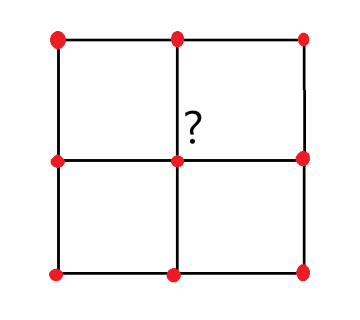
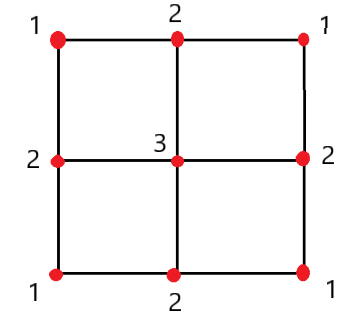
..

diff --git a/pages/university/exercise probability.html b/pages/university/exercise probability.html
@@ -49,22 +49,24 @@
 
 <div class="row-fluid">
   <div class="span12">
-    <p>The following problem is given.<br />
-A particle is placed uniformly at one of the nine points in a $3\times3$ square grid. The particle then
+    <p>The following problem is given</p>
+<blockquote>
+  <p>A particle is placed uniformly at one of the nine points in a $3\times3$ square grid. The particle then
 performs a random walk such that at each step one of the adjacent points (to the right or left, upwards
 or downwards) is chosen with equal probabilities. This means that the particle never remains in a point
 or moves diagonally.<br />
-The question is to find the probability that the particle after three steps is at the central point.<br />
-<img src="../img/3x3grid2.png" alt="3x3" /><br />
+The question is to find the probability that the particle after three steps is at the central point.</p>
+</blockquote>
+
+<p><img src="../img/3x3grid.png" alt="3x3=9" height="300px" width="270px" class="center-image" /><br />
 Now, the standard way to approach the problem would be to consider all possible combinations to reach
 the center point, compute their probabilities and summing them, since each one corresponds to a different
 outcome of a random experiment.<br />
 This leads naturally to a series of matrix multiplications; using the notation that is typical
 of the discrete states Markov chains, of which this is a basic example, I will call $P$ the transition matrix,
-that is the matrix whose element $p_{ij}$ represent the probability for the particle of moving from
+that is the matrix whose element $p_{ij}$ represents the probability for the particle of moving from
 state $i$ to state $j$; here I will enumerate the states
-by row, that is states $1$, $2$, $3$ correspond to the first row of the
-square; as an example, $p_{12}$ is $\frac{1}{2}$ since from state $1$ the particle
+by row, as shown in the picture above; as an example, $p_{12}$ is $\frac{1}{2}$ since from state $1$ the particle
 can only move to state $4$ or state $2$.<br />
 To find the probability of being in state $5$ after three steps I compute $P^3$, corresponding to the transition 
 matrix after three steps, and multiply a row vector of elements all equal to $\frac{1}{9}$ for
@@ -78,12 +80,11 @@ But the symmetry of the problem might suggest us that the point that lies in the
 different from the point that lies in the bottom-right corner. An analogous consideration can be done
 for the top-middle and middle-left points and so on.<br />
 So the idea is to pass from a Markov chain with nine states to a Markov chain with just three states;
-I will refer to this states as <em>abstract states</em>, and will call
-state $1$ when the particle lies in the vertices of the square (one of states $1$,$3$,$7$,$9$);
-state $2$ when the particle lies in the middle points of the external border
-(one of $2$,$4$,$6$,$8$); state $3$ when the particle is in the middle of the square.<br />
+I will refer to this states as <em>abstract states</em>, and will enumerate them like in the following picture<br />
+<br />
+<img src="../img/3x3grid2.png" alt="3x3" height="300px" width="270px" class="center-image" /><br />
 You might wonder if the two representations are equivalent or not, so let’s give it some more thoughts.
-When the particle lies in the vertices (we referred to this state as $1$), it can
+When the particle lies in the vertices (abstract state $1$), it can
 only move to a point belonging to abstract state $2$ . Similarly, when it
 is in abstract state $2$, it will have $\frac{1}{3}$ chances to move to abstract state $3$
 and $\frac{2}{3}$chances to move to abstract state $1$.<br />
@@ -101,7 +102,7 @@ in abstract state $3$ after
 three steps is to start from abstract state $2$ (and this happens with probability $\frac{4}{9}$); conditioning on that, the probability
 that at the third step the particle will move from state $2$ to state $3$ is $\frac{1}{3}$, so that overall I have a probability<br />
 <script type="math/tex">\frac{1}{3}\cdot\frac{4}{9}=\frac{4}{27}</script><br />
-that leads to the same result as before in a much quicker way.</p>
+Therefore, we reached the same conclusion as before in a much more “elegant” way.</p>
 
 
   </div>

diff --git a/assets/themes/twitter/css/style.css b/assets/themes/twitter/css/style.css
@@ -63,3 +63,9 @@
   background: #57A957;
   border: 1px solid #4c964d;
   color: #FFF; }
+
+.center-image
+{
+    margin: 0 auto;
+    display: block;
+}
